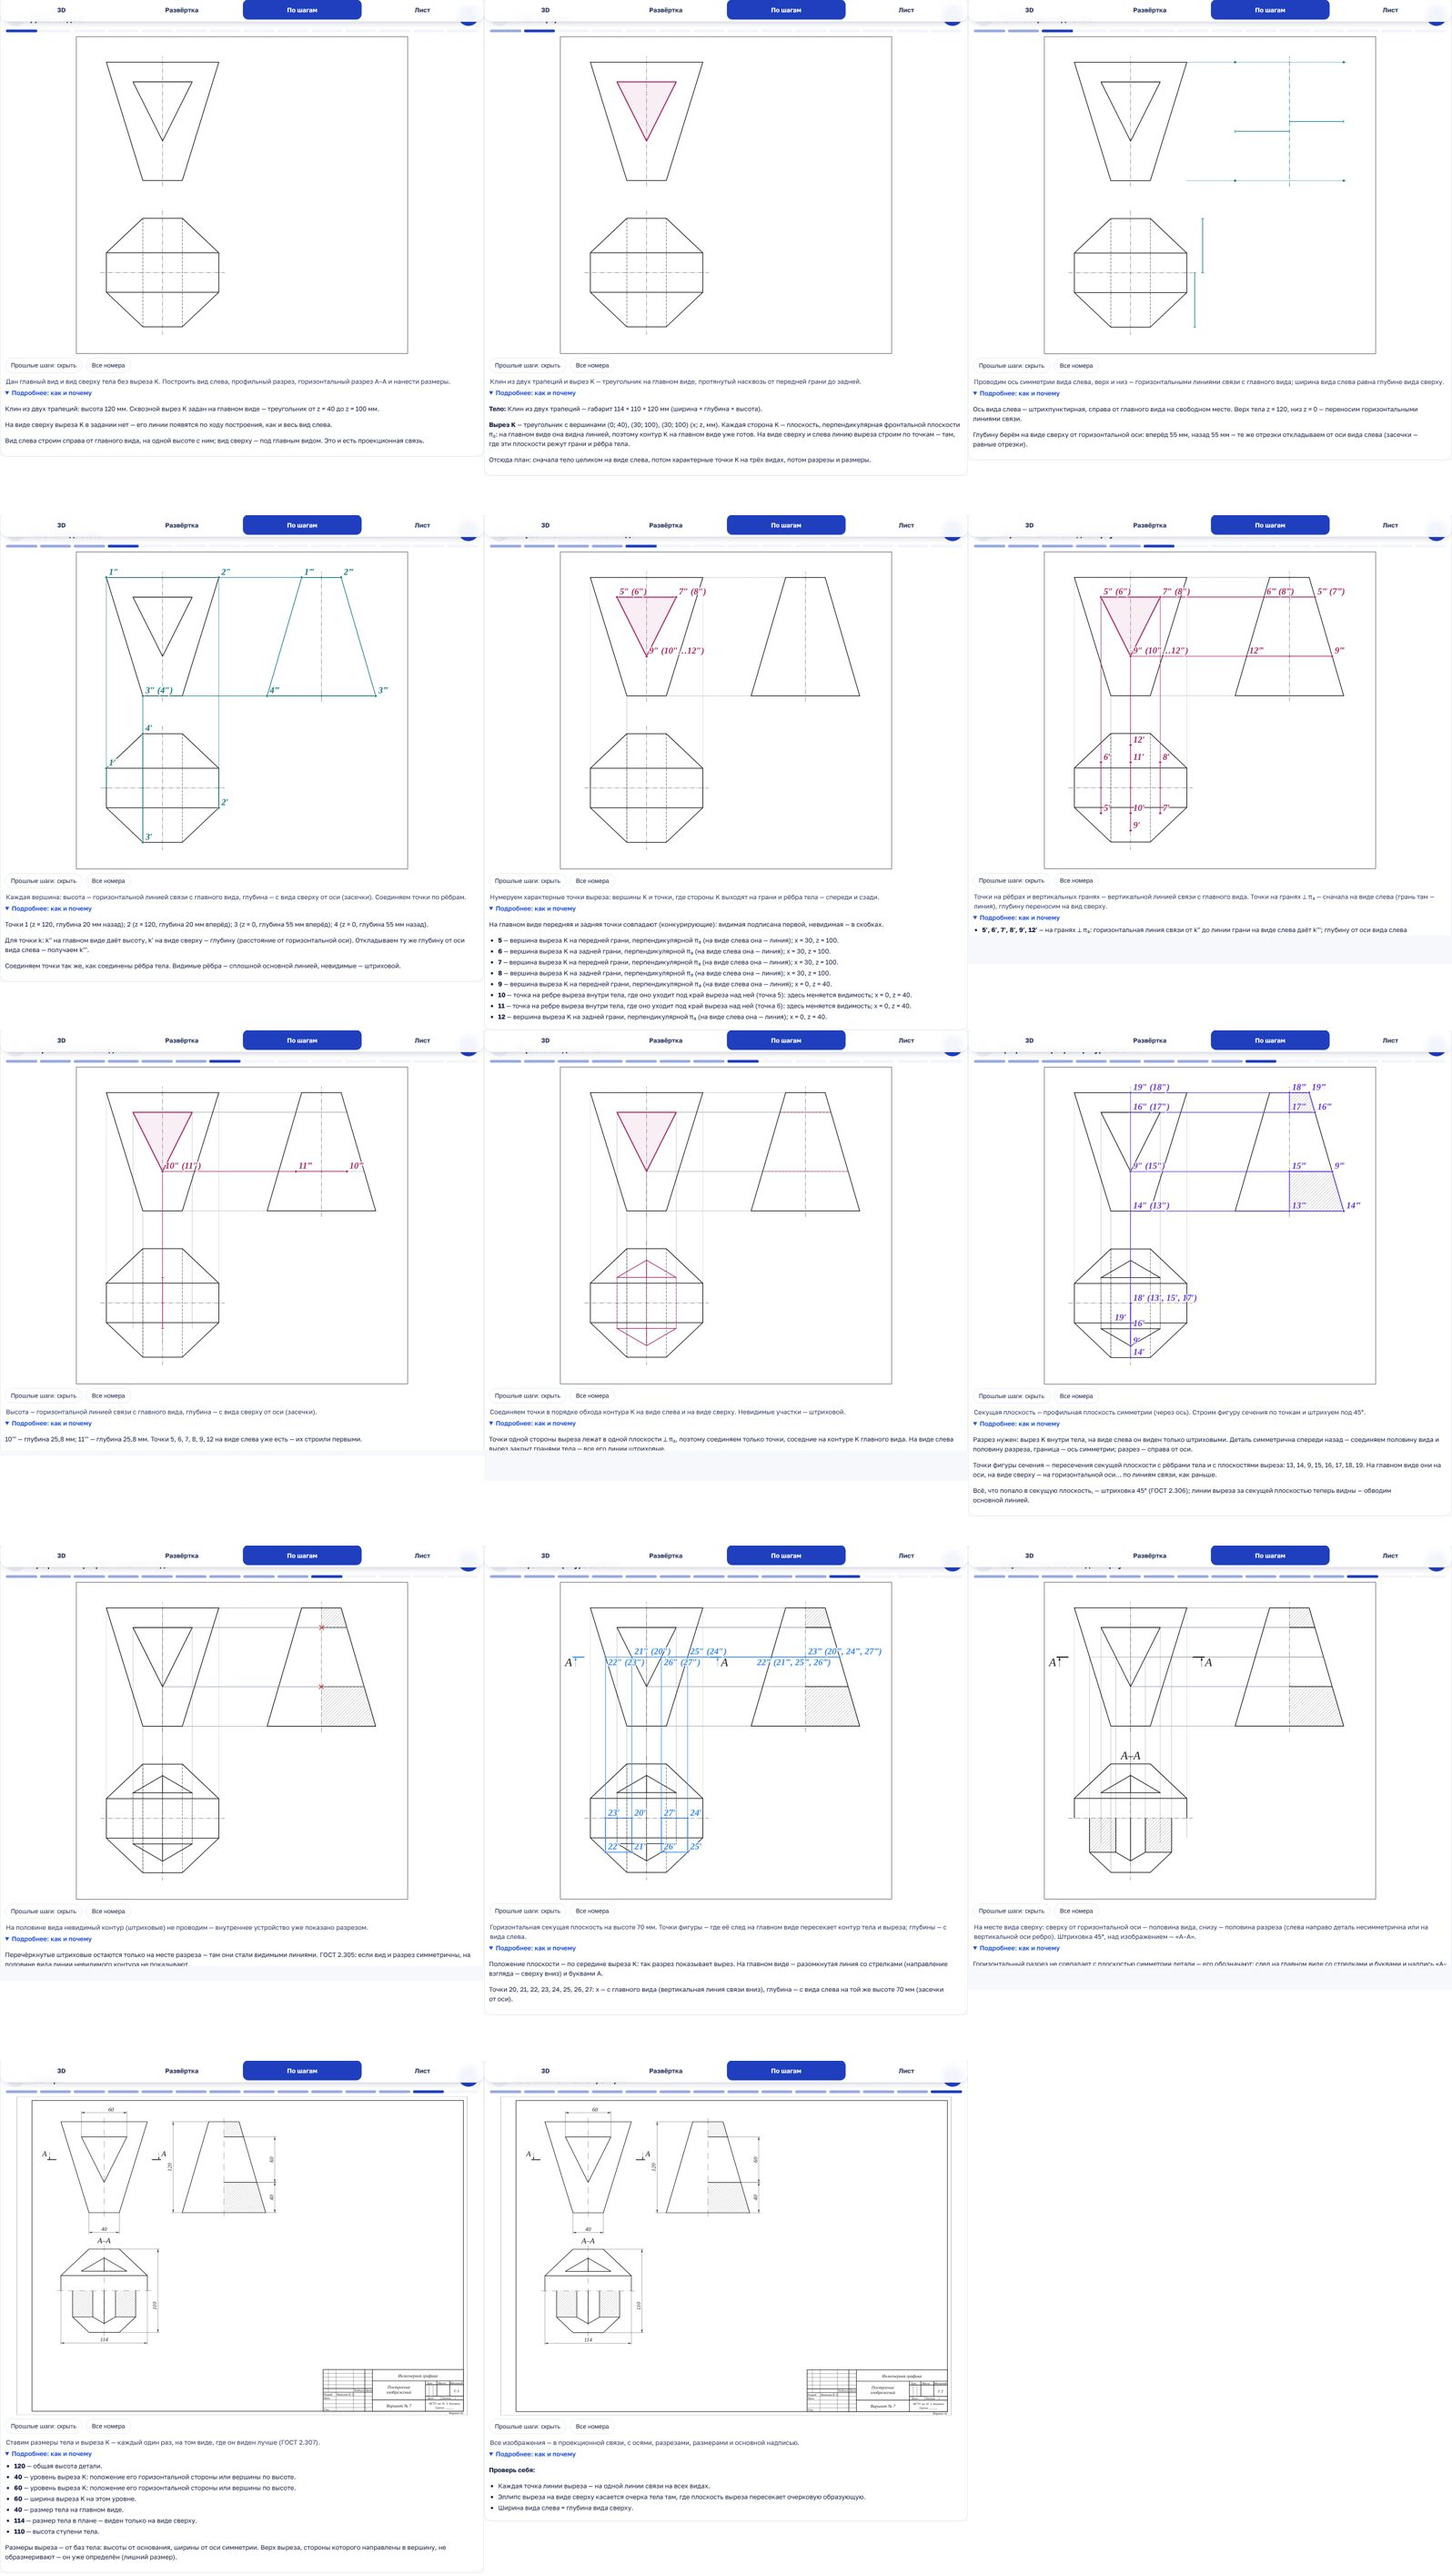
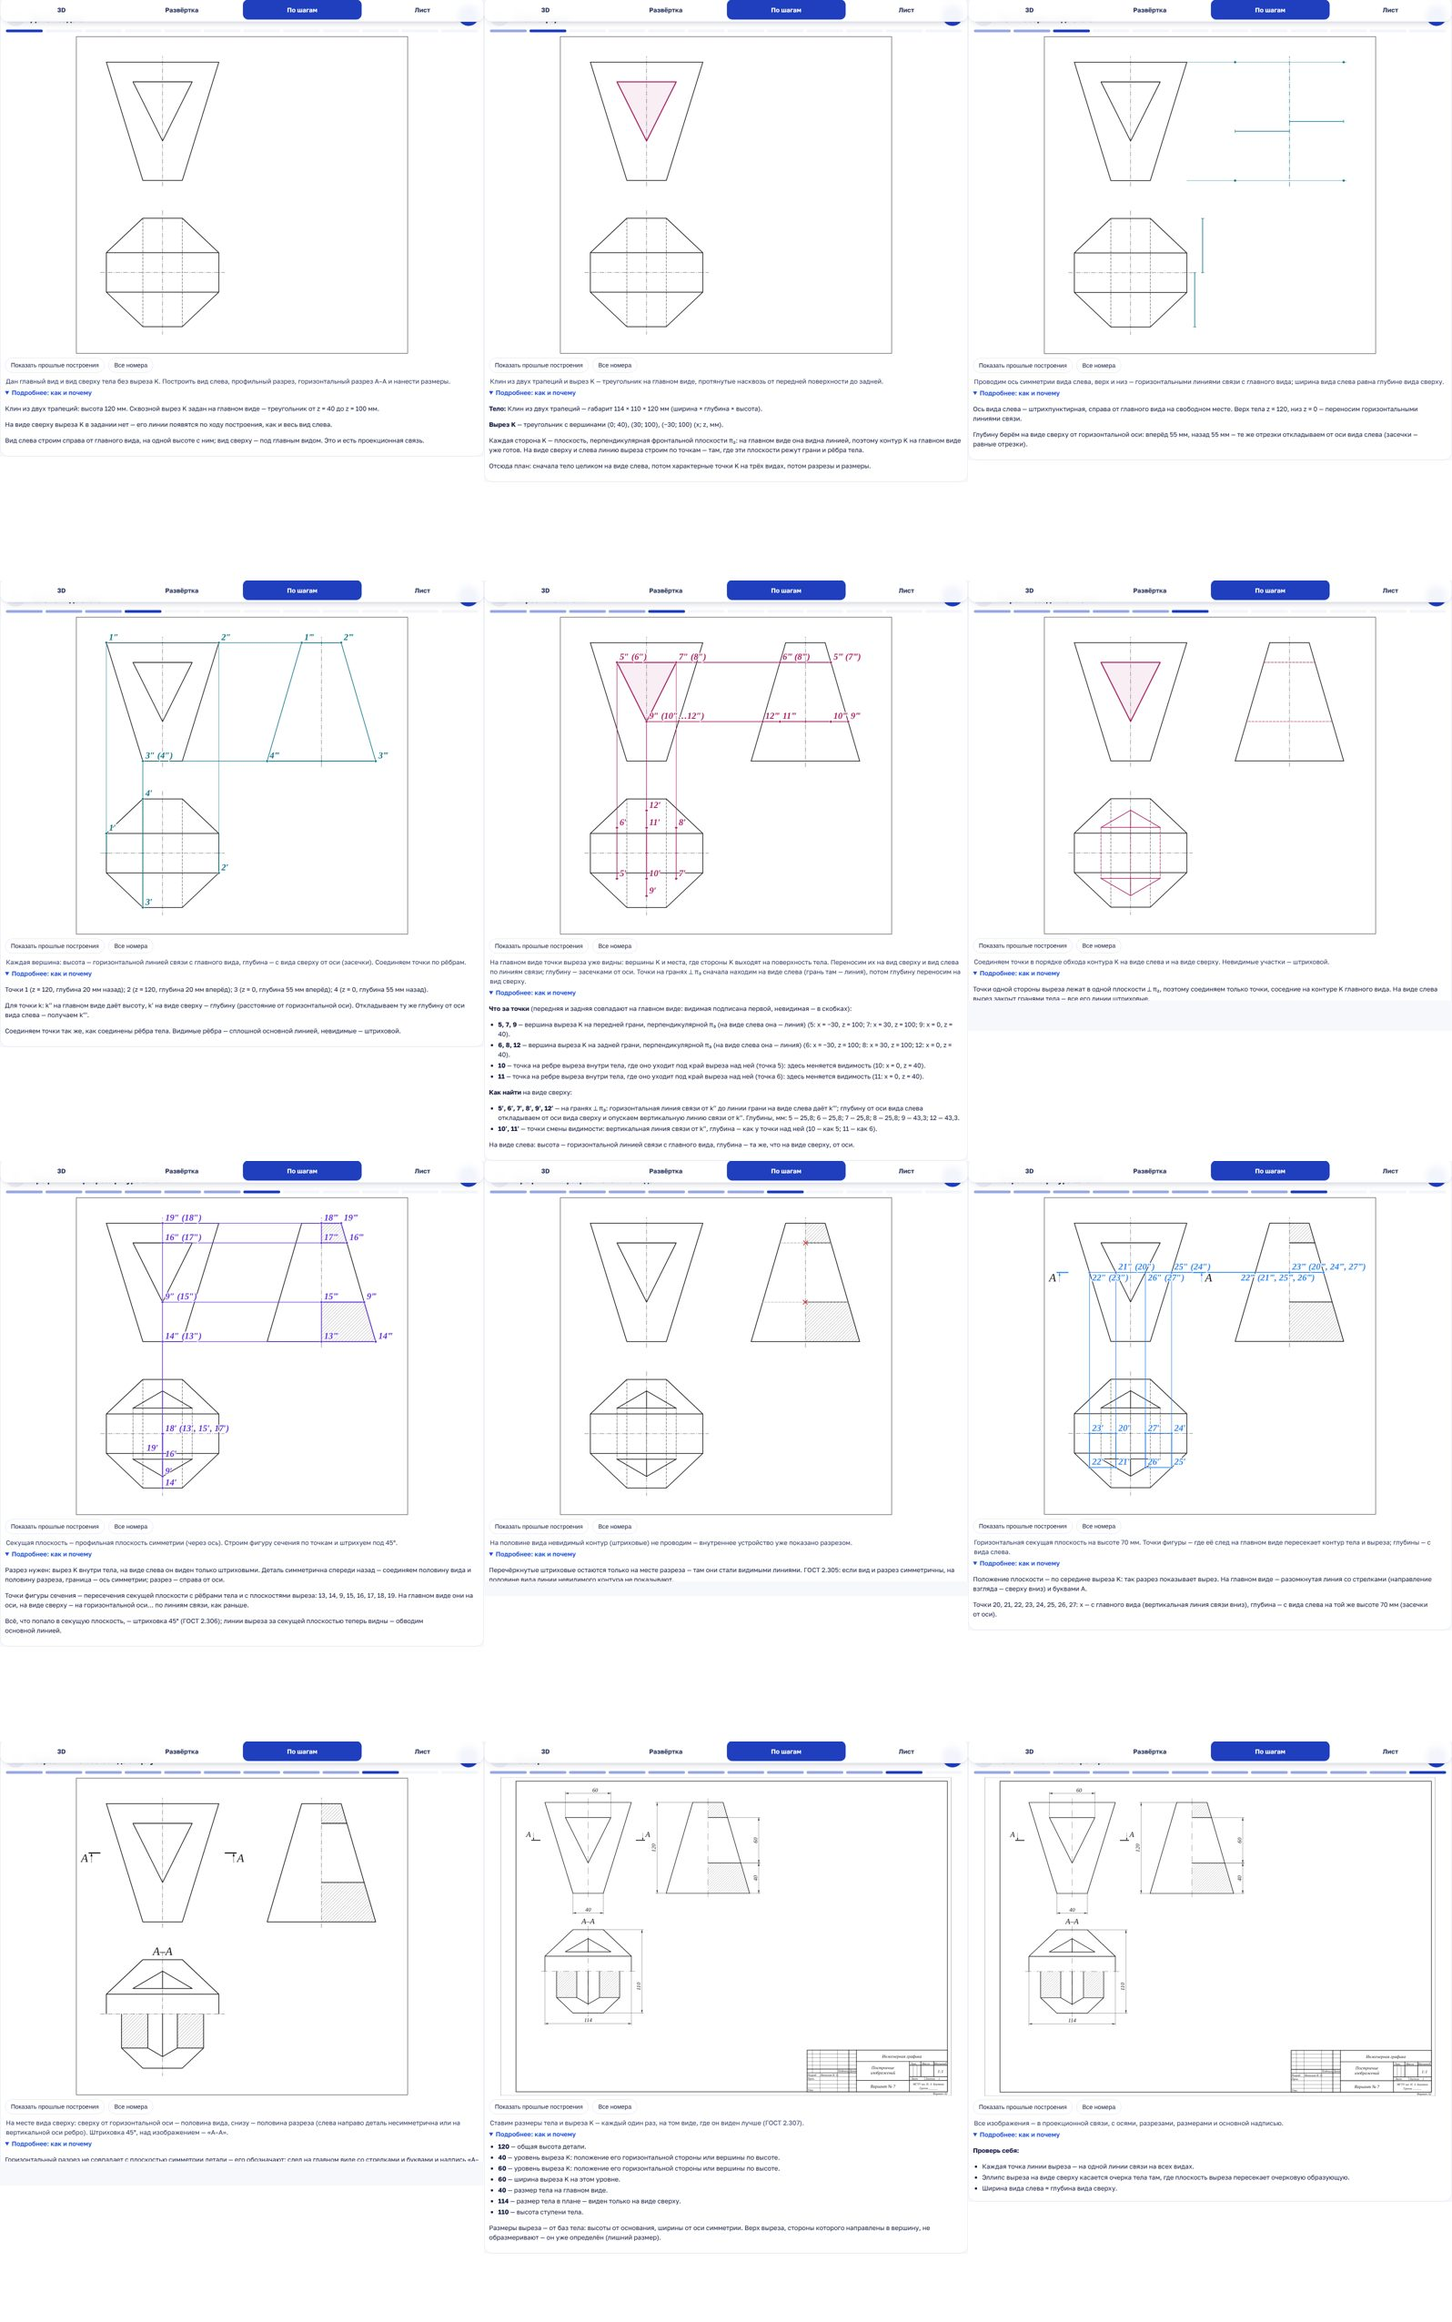
ДЗ 4 ИГ, шаги: раскатка на все 30 вариантов, проще и чище
Отработавшие точки и линии связи убираются на следующем шаге; точки выреза — сразу
на трёх видах одним шагом, группами поровну, каждый вырез отдельно; на кривых —
меньше точек; подписи без наложений на всех 30 вариантах; тексты сгруппированы.
Для чат-бота: IG4S.tutor(n) и IG4S.player (go, current, highlight).

Claude-Session: https://claude.ai/code/session_01NxJhVH2bQ98GTrQFKTZGxP

diff --git a/tests/ig4-steps.js b/tests/ig4-steps.js
@@ -1,10 +1,10 @@
 /* ═══════════ ДЗ №4 по ИГ: решение по шагам — у каждой линии происхождение (dz/ig/4/steps.js) ═══════════
    Покрытие: каждый отрезок итогового вида слева, линий выреза K на виде сверху, фигур профильного разреза и разреза А–А
    имеет шаг, где его концы построены — точка с линиями связи (кривая — концы и точки на ней). Норма — 100 %.
-   Состав шагов: анализ, ось и габарит, тело по рёбрам, точки K на трёх видах, линия выреза, профильный разрез, А–А,
+   Состав шагов: анализ, ось и габарит, тело по рёбрам, точки K (все три проекции), линия выреза, профильный разрез, А–А,
    размеры, лист. Подписи шага не налезают друг на друга. Плеер проходится кнопками без ошибок JS (вариант 7).
    node tests/ig4-steps.js [--only=7,18]   — отдельно (все 30 вариантов, ≈ 2 мин) */
-const NEED=['given','anal','axis','body','kF','kT','kL','kLines','secL','aa','aa2','dims','sheet'];
+const NEED=['given','anal','axis','body','kP','kLines','secL','aa','aa2','dims','sheet'];
 async function ig4StepsCheck(page,URL,opt){ opt=opt||{}; const bad=[], add=(n,r,m)=>bad.push({name:'ДЗ 4 · шаги · в. '+n,rule:r,msg:m});
   const errs=[], onErr=e=>errs.push(String(e)); page.on('pageerror',onErr);
   await page.goto(URL+'#/ig/dz/4/7'); await page.waitForTimeout(1500);

diff --git a/dz/ig/4/README.md b/dz/ig/4/README.md
@@ -39,12 +39,15 @@
 на грани ⟂ π₃ (сначала вид слева, потом глубина на вид сверху); общего положения — через параллель (горизонтальное
 сечение тела); внутри тела — точка смены видимости.
 
-Порядок: дано → анализ формы → ось и габарит вида слева → тело по рёбрам → точки K на главном виде → на виде сверху →
-на виде слева → линии выреза → стираем то, что унёс вырез → профильный разрез (фигура сечения по точкам, половина вида
-без штриховых) → разрез А–А (фигура по точкам, половина вида + половина разреза) → размеры (каждый с причиной) → лист и
-самопроверка. Цвета: тело — сине-зелёный, вырез K — винный во всех видах, профильный разрез — фиолетовый, А–А — голубой,
-прошлые шаги — серым (кнопка «Прошлые шаги: скрыть»), стираемое — перечёркнуто красным. Фигуры сечений — из модели
-(`IG3.secShape`), не с картинки.
+Порядок: дано → анализ формы → ось и габарит вида слева → тело по рёбрам → точки выреза K (сразу на трёх видах, группами
+до 14 точек, каждый вырез отдельно) → линии выреза → стираем то, что унёс вырез → профильный разрез (фигура сечения по
+точкам, половина вида без штриховых) → разрез А–А (фигура по точкам, половина вида + половина разреза) → размеры (каждый
+с причиной) → лист и самопроверка. Сделанные точки и линии связи на следующем шаге убираются — остаётся результат
+(вернуть — кнопкой «Показать прошлые построения»). Цвета: тело — сине-зелёный, вырез K — винный во всех видах, профильный
+разрез — фиолетовый, А–А — голубой, стираемое — перечёркнуто красным. Фигуры сечений — из модели (`IG3.secShape`).
+
+Для чат-бота-наставника: `IG4S.tutor(n)` — шаги варианта без вёрстки (`title`, `short`, `more`, точки с координатами и
+способом построения `how`); `IG4S.player` (когда открыт плеер) — `go(k)`, `current()`, `highlight([номера точек])`.
 
 Проверка — `tests/ig4-steps.js`: каждый отрезок итогового вида слева, линий K на виде сверху и фигур обоих разрезов
 имеет шаг, где построены его концы (кривая — концы и точки на ней); сейчас 100 % у всех 30 вариантов.
